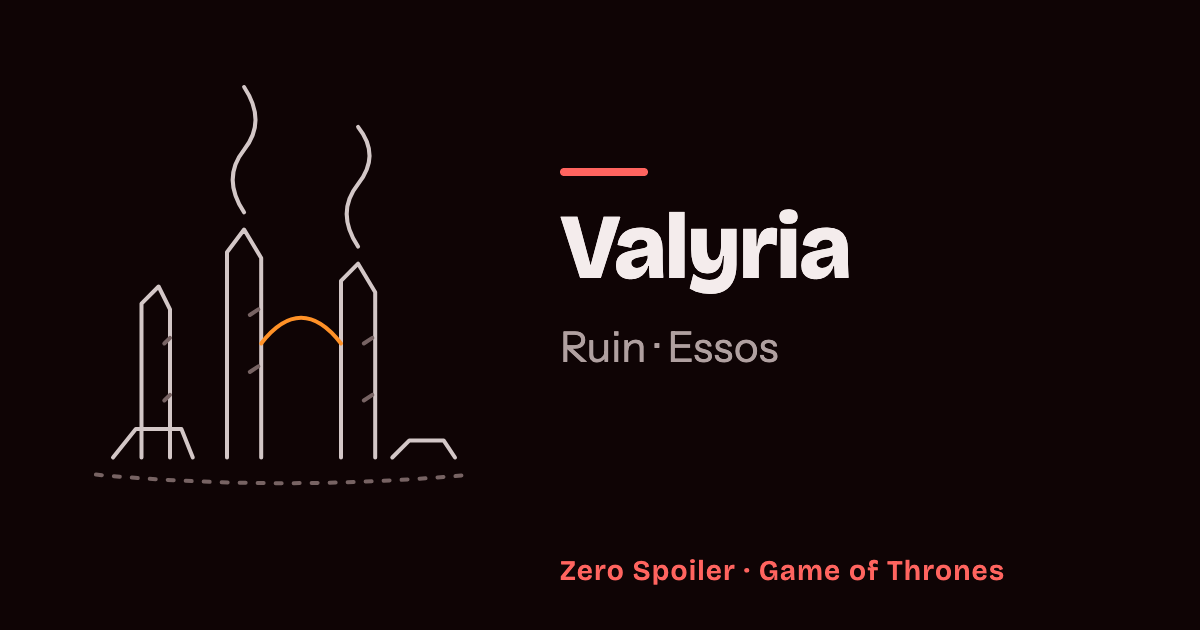
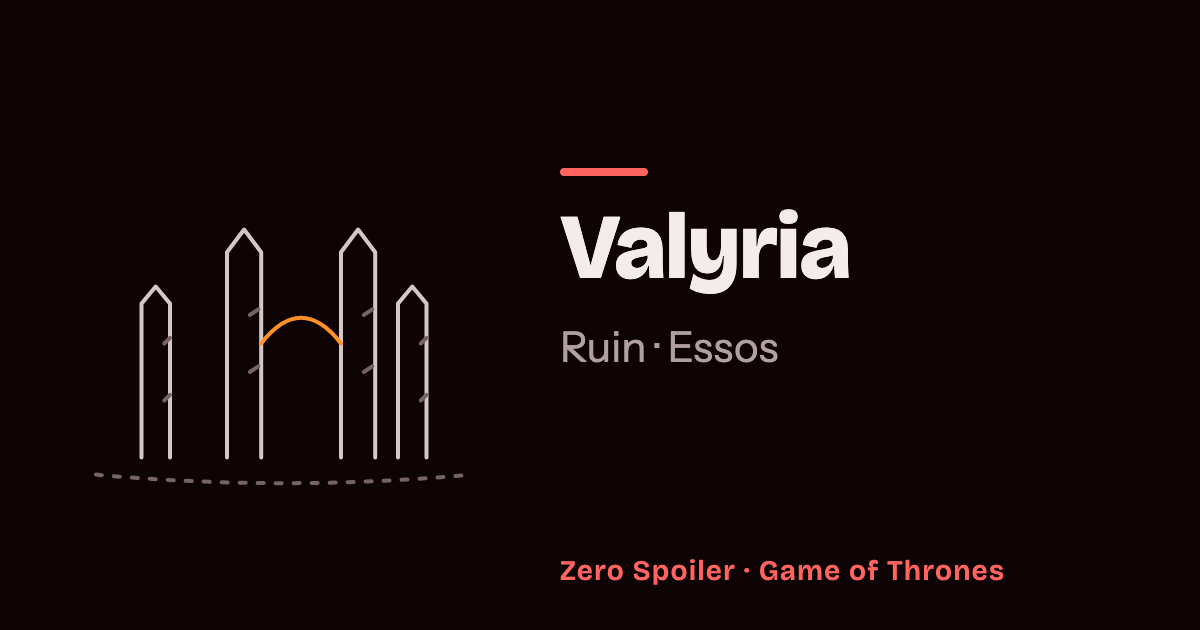
fix(thrones): keep Valyria to what both media tell at its gate
Review round 1: the log, landmark and drawing told its destruction and
smoke, which neither medium tells by episode 4 or chapter 3 (P2). Also
spells the Narrow Sea as Pentos does and labels the ruin form Rovine
(P3).

diff --git a/src/data/series/game-of-thrones/records/season-1.ts b/src/data/series/game-of-thrones/records/season-1.ts
@@ -2586,8 +2586,8 @@ export const season1: ThronesSaga = {
       revealedAtChapter: 3,
       name: { it: 'Valyria', en: 'Valyria' },
       summary: {
-        it: 'Una terra antica di Essos, oggi in rovina.',
-        en: 'An old land of Essos, now in ruins.',
+        it: 'Una terra antica di Essos.',
+        en: 'An old land of Essos.',
       },
       visual: { art: 'valyria', tint: 'orange' },
     },
@@ -2601,7 +2601,7 @@ export const season1: ThronesSaga = {
       name: { it: 'Braavos', en: 'Braavos' },
       summary: {
         it: 'Una delle Città Libere, al di là del Mare Stretto.',
-        en: 'One of the Free Cities, across the narrow sea.',
+        en: 'One of the Free Cities, across the Narrow Sea.',
       },
       visual: { art: 'braavos', tint: 'azure' },
     },
@@ -2615,7 +2615,7 @@ export const season1: ThronesSaga = {
       name: { it: 'Myr', en: 'Myr' },
       summary: {
         it: 'Una delle Città Libere, al di là del Mare Stretto.',
-        en: 'One of the Free Cities, across the narrow sea.',
+        en: 'One of the Free Cities, across the Narrow Sea.',
       },
       visual: { art: 'myr', tint: 'teal' },
     },
@@ -2629,7 +2629,7 @@ export const season1: ThronesSaga = {
       name: { it: 'Tyrosh', en: 'Tyrosh' },
       summary: {
         it: 'Una delle Città Libere, al di là del Mare Stretto.',
-        en: 'One of the Free Cities, across the narrow sea.',
+        en: 'One of the Free Cities, across the Narrow Sea.',
       },
       visual: { art: 'tyrosh', tint: 'cyan' },
     },
@@ -2657,7 +2657,7 @@ export const season1: ThronesSaga = {
       name: { it: 'Volantis', en: 'Volantis' },
       summary: {
         it: 'Una delle Città Libere, al di là del Mare Stretto.',
-        en: 'One of the Free Cities, across the narrow sea.',
+        en: 'One of the Free Cities, across the Narrow Sea.',
       },
       visual: { art: 'volantis', tint: 'ocher' },
     },
@@ -2671,7 +2671,7 @@ export const season1: ThronesSaga = {
       name: { it: 'Lys', en: 'Lys' },
       summary: {
         it: 'Una delle Città Libere, al di là del Mare Stretto.',
-        en: 'One of the Free Cities, across the narrow sea.',
+        en: 'One of the Free Cities, across the Narrow Sea.',
       },
       visual: { art: 'lys', tint: 'pink' },
     },
@@ -6343,10 +6343,10 @@ export const SEASON_1_PLACES: Record<
   'valyria': {
     form: 'ruin',
     region: 'essos',
-    landmark: { it: 'Rovine fumanti', en: 'Smoking ruins' },
+    landmark: { it: 'Colonne antiche', en: 'Old columns' },
     log: {
-      it: 'Era una terra antica di Essos, distrutta da una catastrofe. Ne restano rovine.',
-      en: 'It was an old land of Essos, destroyed by a disaster. Only ruins remain.',
+      it: 'È una terra antica di Essos, di cui si parla come di un tempo passato.',
+      en: 'It is an old land of Essos, spoken of as a thing of the past.',
     },
     filedHere: [],
   },
@@ -6356,7 +6356,7 @@ export const SEASON_1_PLACES: Record<
     landmark: { it: 'Una città sull’acqua', en: 'A city on the water' },
     log: {
       it: 'È una delle Città Libere, oltre il Mare Stretto.',
-      en: 'It is one of the Free Cities, across the narrow sea.',
+      en: 'It is one of the Free Cities, across the Narrow Sea.',
     },
     filedHere: [],
   },
@@ -6366,7 +6366,7 @@ export const SEASON_1_PLACES: Record<
     landmark: { it: 'Una città sulla costa', en: 'A city on the coast' },
     log: {
       it: 'È una delle Città Libere, oltre il Mare Stretto.',
-      en: 'It is one of the Free Cities, across the narrow sea.',
+      en: 'It is one of the Free Cities, across the Narrow Sea.',
     },
     filedHere: [],
   },
@@ -6376,7 +6376,7 @@ export const SEASON_1_PLACES: Record<
     landmark: { it: 'Una città su un’isola', en: 'A city on an island' },
     log: {
       it: 'È una delle Città Libere, oltre il Mare Stretto.',
-      en: 'It is one of the Free Cities, across the narrow sea.',
+      en: 'It is one of the Free Cities, across the Narrow Sea.',
     },
     filedHere: [],
   },
@@ -6402,7 +6402,7 @@ export const SEASON_1_PLACES: Record<
     },
     log: {
       it: 'È una delle Città Libere, oltre il Mare Stretto.',
-      en: 'It is one of the Free Cities, across the narrow sea.',
+      en: 'It is one of the Free Cities, across the Narrow Sea.',
     },
     filedHere: [],
   },
@@ -6415,7 +6415,7 @@ export const SEASON_1_PLACES: Record<
     },
     log: {
       it: 'È una delle Città Libere, oltre il Mare Stretto.',
-      en: 'It is one of the Free Cities, across the narrow sea.',
+      en: 'It is one of the Free Cities, across the Narrow Sea.',
     },
     filedHere: [],
   },

diff --git a/src/data/series/game-of-thrones/art/places.ts b/src/data/series/game-of-thrones/art/places.ts
@@ -682,25 +682,18 @@ const ASSHAI: Stroke[] = [
 ]
 
 /**
- * Valyria: broken columns under rising smoke, the ruin named in Catelyn I
- * (chapter 3) and in episode 4 and never visited in the first season or
- * book. The accent is the arch still standing.
+ * Valyria: old columns round a standing arch, for the land named in Catelyn I
+ * (chapter 3) and in episode 4 and never visited in the first season or book.
+ * Neither tells its fate by then, so nothing is broken or burning. The accent
+ * is the arch.
  */
 const VALYRIA: Stroke[] = [
   {
-    d: 'M30 150 V96 L36 90 L40 98 V150 M60 150 V78 L66 70 L72 80 V150 M100 150 V88 L106 82 L112 92 V150',
+    d: 'M30 150 V96 L35 90 L40 96 V150 M60 150 V78 L66 70 L72 78 V150 M100 150 V78 L106 70 L112 78 V150 M120 150 V96 L125 90 L130 96 V150',
   },
   { d: 'M72 110 Q86 92 100 110', role: 'accent' },
   {
-    d: 'M66 64 Q58 52 66 42 Q74 32 66 20 M106 76 Q98 64 106 54 Q114 44 106 34',
-    role: 'soft',
-  },
-  {
-    d: 'M20 150 L28 140 H44 L48 150 M118 150 L124 144 H136 L140 150',
-    role: 'soft',
-  },
-  {
-    d: 'M68 100 l3 -2 M68 120 l3 -2 M108 110 l3 -2 M108 130 l3 -2 M38 110 l2 -2 M38 130 l2 -2',
+    d: 'M68 100 l3 -2 M68 120 l3 -2 M108 100 l3 -2 M108 120 l3 -2 M38 110 l2 -2 M38 130 l2 -2 M128 110 l2 -2 M128 130 l2 -2',
     role: 'ambient',
   },
   shadow(80, 156, 66),

diff --git a/src/data/series/game-of-thrones/placeWords.ts b/src/data/series/game-of-thrones/placeWords.ts
@@ -32,7 +32,7 @@ export const GAME_OF_THRONES_PLACE_WORDS: PlaceWords<ThronesVocabulary> = {
     marsh: { en: 'Marsh', it: 'Palude' },
     mountain: { en: 'Mountain', it: 'Montagna' },
     plain: { en: 'Plain', it: 'Pianura' },
-    ruin: { en: 'Ruin', it: 'Rovina' },
+    ruin: { en: 'Ruin', it: 'Rovine' },
     sept: { en: 'Sept', it: 'Tempio' },
     town: { en: 'Town', it: 'Borgo' },
   },
